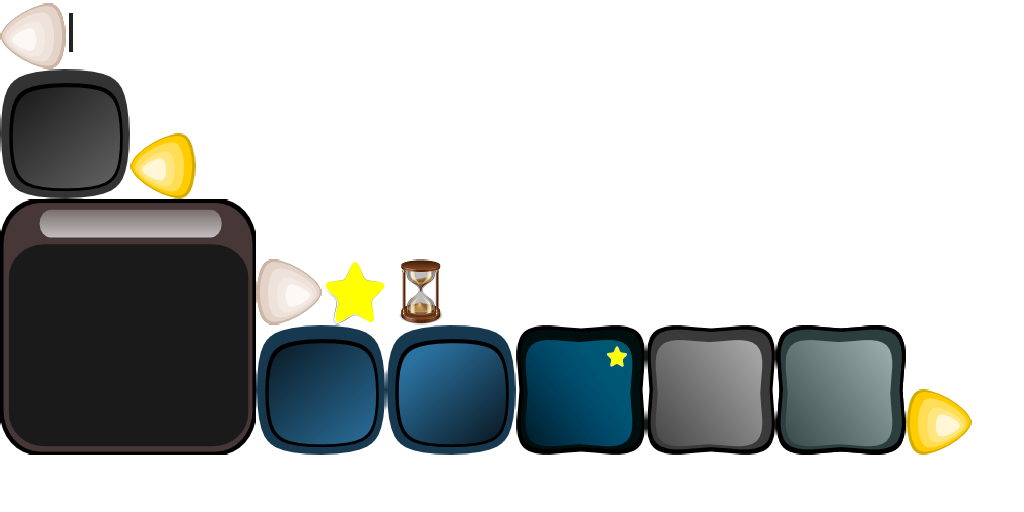
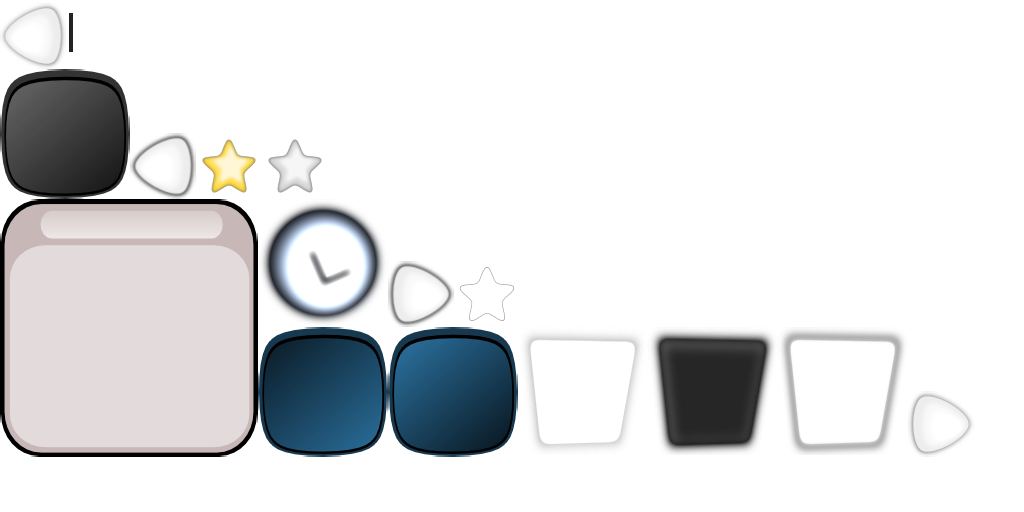
Skin updates

Changed region(s): [[0.0, 0.0, 0.9688, 0.9062]]

diff --git a/core/src/com/mpv/screens/dialogs/FailedDialog.java b/core/src/com/mpv/screens/dialogs/FailedDialog.java
@@ -1,5 +1,6 @@
 package com.mpv.screens.dialogs;
 
+import com.badlogic.gdx.Gdx;
 import com.badlogic.gdx.Input.Keys;
 import com.badlogic.gdx.scenes.scene2d.ui.Dialog;
 import com.badlogic.gdx.scenes.scene2d.ui.Image;
@@ -8,13 +9,14 @@ import com.esotericsoftware.tablelayout.Cell;
 import com.mpv.data.Const;
 import com.mpv.data.GVars;
 import com.mpv.game.world.GameObject;
+import com.mpv.screens.GameScreen;
 
 public class FailedDialog extends Dialog {
 
 	public FailedDialog(String title, Skin skin, String styleName) {
 		super(title, skin, styleName);
 		this.getContentTable().add(new Image()).size(GVars.scrWidth/1.6f);
-		this.button("Menu", true).button("Back", false).key(Keys.ENTER, true).key(Keys.ESCAPE, false);
+		this.button("Menu", true).button("Retry", false).key(Keys.ENTER, true).key(Keys.ESCAPE, false);
 		for (Cell<?> cell :  this.getButtonTable().getCells()) {
 			cell.size(Const.PLAYER_SIZE*GVars.BOX_TO_WORLD, Const.PLAYER_HALF*GVars.BOX_TO_WORLD);
 		}
@@ -27,6 +29,7 @@ public class FailedDialog extends Dialog {
 		}else {
 			this.hide();
 			GameObject.getInstance().gameResume();
+			Gdx.input.setInputProcessor(GameScreen.multiplexer);
 		}
 	}
 }

diff --git a/core/src/com/mpv/screens/stages/GameUIStage.java b/core/src/com/mpv/screens/stages/GameUIStage.java
@@ -55,10 +55,9 @@ public class GameUIStage extends Stage {
 		Table controlPanel = new Table();
 		controlPanel.setFillParent(true);
 		controlPanel.debug().bottom().left();
-		controlPanel.add(new Image(Assets.skin.getDrawable("star"))).size(GVars.scrHeight/13);
+		controlPanel.add(new Image(Assets.skin.getDrawable("timer"))).size(GVars.scrHeight/13);
 		controlPanel.add(labelTime).expand(true, false).height(GVars.scrHeight/13).width(getWidth()/4.3f).left();
-		//controlPanel.add(labelDebug).expand(true, false).size(GVars.scrHeight/13);
-		
+		//controlPanel.add(labelDebug).expand(true, false).size(GVars.scrHeight/13);		
 		//controlPanel.add(labelFPS).expand(true, false).size(GVars.scrHeight/13);
 		controlPanel.add(bPlay).size(GVars.scrHeight/13).right();
 		//controlPanel.add(bExit).size(GVars.scrHeight/13);

diff --git a/core/src/com/mpv/screens/dialogs/FinishDialog.java b/core/src/com/mpv/screens/dialogs/FinishDialog.java
@@ -24,7 +24,7 @@ public class FinishDialog extends Dialog {
 		Widget empty = new Widget();
 		Table pointsTable = new Table();
 		//pointsTable.debug();
-		pointsTable.add(new Image(Assets.skin.getDrawable("star"))).size(GVars.scrHeight/13).left();
+		pointsTable.add(new Image(Assets.skin.getDrawable("star-none"))).size(GVars.scrHeight/13).left();
 		pointsTable.add(empty).size(GVars.scrHeight/13);
 		pointsTable.add(points);
 		//this.getContentTable().debug();
